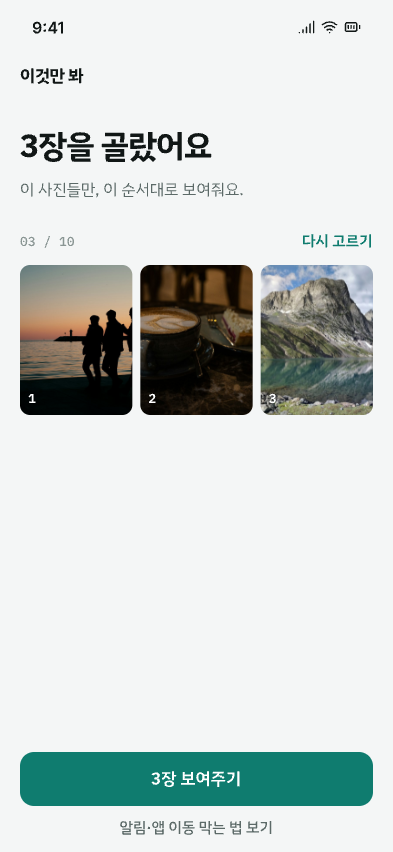
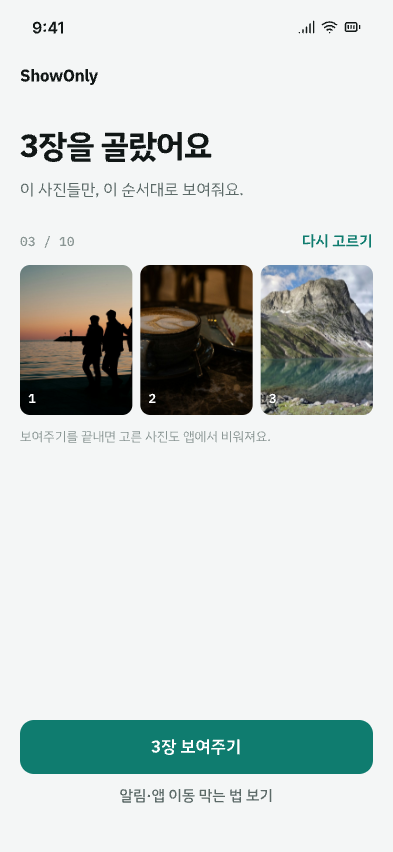
Design: rename wordmark to ShowOnly, drop lock screen mode label

Changed region(s): [[0.0305, 0.8239, 0.9466, 1.0], [0.0611, 0.4883, 0.6718, 0.5188], [0.0611, 0.061, 0.2443, 0.1221]]

diff --git a/design/README.md b/design/README.md
@@ -1,5 +1,7 @@
 # ShowOnly 디자인 (A · Quiet Shield)
 
+- 앱 이름: ShowOnly (영문 워드마크, "이것만 봐"는 사용 안 함)
+
 - 원본: `show-only.pen` (Pen.app). 상단은 후보 A/B/C, 아래가 최종 A.
 - 화면: Home / Empty, Home / Selected, Viewer, Lock / Default, Lock / Auth Failed, Protection Guide
 - 컴포넌트: Button / Primary·Secondary·Text, Fact Row, Guide Step, Page Counter, Status Bar
